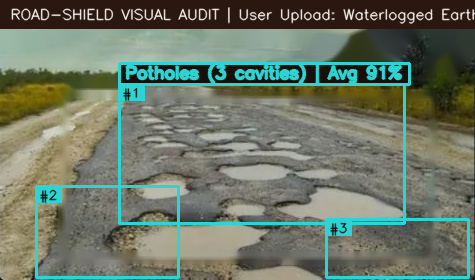
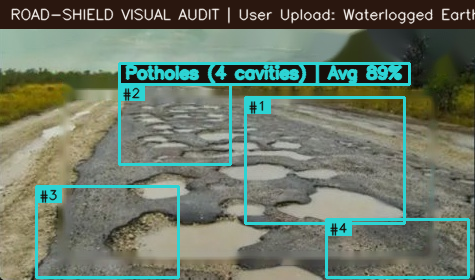
fix(pipeline): forbid inter-lane horizontal merging of distinct potholes and bound perspective width

diff --git a/pipeline/deep_inference_pipeline.py b/pipeline/deep_inference_pipeline.py
@@ -1191,10 +1191,18 @@ class DeepInferencePipeline:
                     comb_w = max(x1 + w1, x2 + w2) - comb_x0
                     comb_h = max(y1 + h1, y2 + h2) - comb_y0
                     comb_area = comb_w * comb_h
+                    comb_y1 = comb_y0 + comb_h
 
+                    # Perspective carriageway width guard:
+                    # In upper/midground half (comb_y0 < 0.48*H and comb_y1 < 0.72*H), road converges towards horizon,
+                    # so a single pothole cannot exceed a single wheel-path width (comb_w <= 0.42*W).
+                    # In near-field foreground (comb_y1 >= 0.72*H), macro cavities can span up to 0.75*W.
+                    max_w_allowed = int(W * 0.42) if (comb_y0 < 0.48 * H and comb_y1 < 0.72 * H) else int(W * 0.75)
+                    if comb_w > max_w_allowed:
+                        continue
                     if comb_area > int(0.42 * W * H):
                         continue
-                    if comb_w > int(0.85 * W) or comb_h > int(0.65 * H):
+                    if comb_h > int(0.65 * H):
                         continue
 
                     is_merge = False
@@ -1210,10 +1218,13 @@ class DeepInferencePipeline:
                     if not is_merge:
                         gap_x = max(0, xi0 - xi1) if xi0 > xi1 else 0
                         gap_y = max(0, yi0 - yi1) if yi0 > yi1 else 0
+                        # Two already complete substantial potholes in distinct wheel paths cannot merge horizontally
+                        both_complete = (w1 >= 90 and w2 >= 90 and h1 >= 75 and h2 >= 75)
+
                         # Fragments of the same crater rim across an interior gravel/water basin gap
                         if inter_w >= int(0.18 * min(w1, w2)) and gap_y <= 55:
                             is_merge = True
-                        elif inter_h >= int(0.18 * min(h1, h2)) and gap_x <= 55:
+                        elif not both_complete and inter_h >= int(0.18 * min(h1, h2)) and gap_x <= 55:
                             is_merge = True
 
                     if is_merge:
